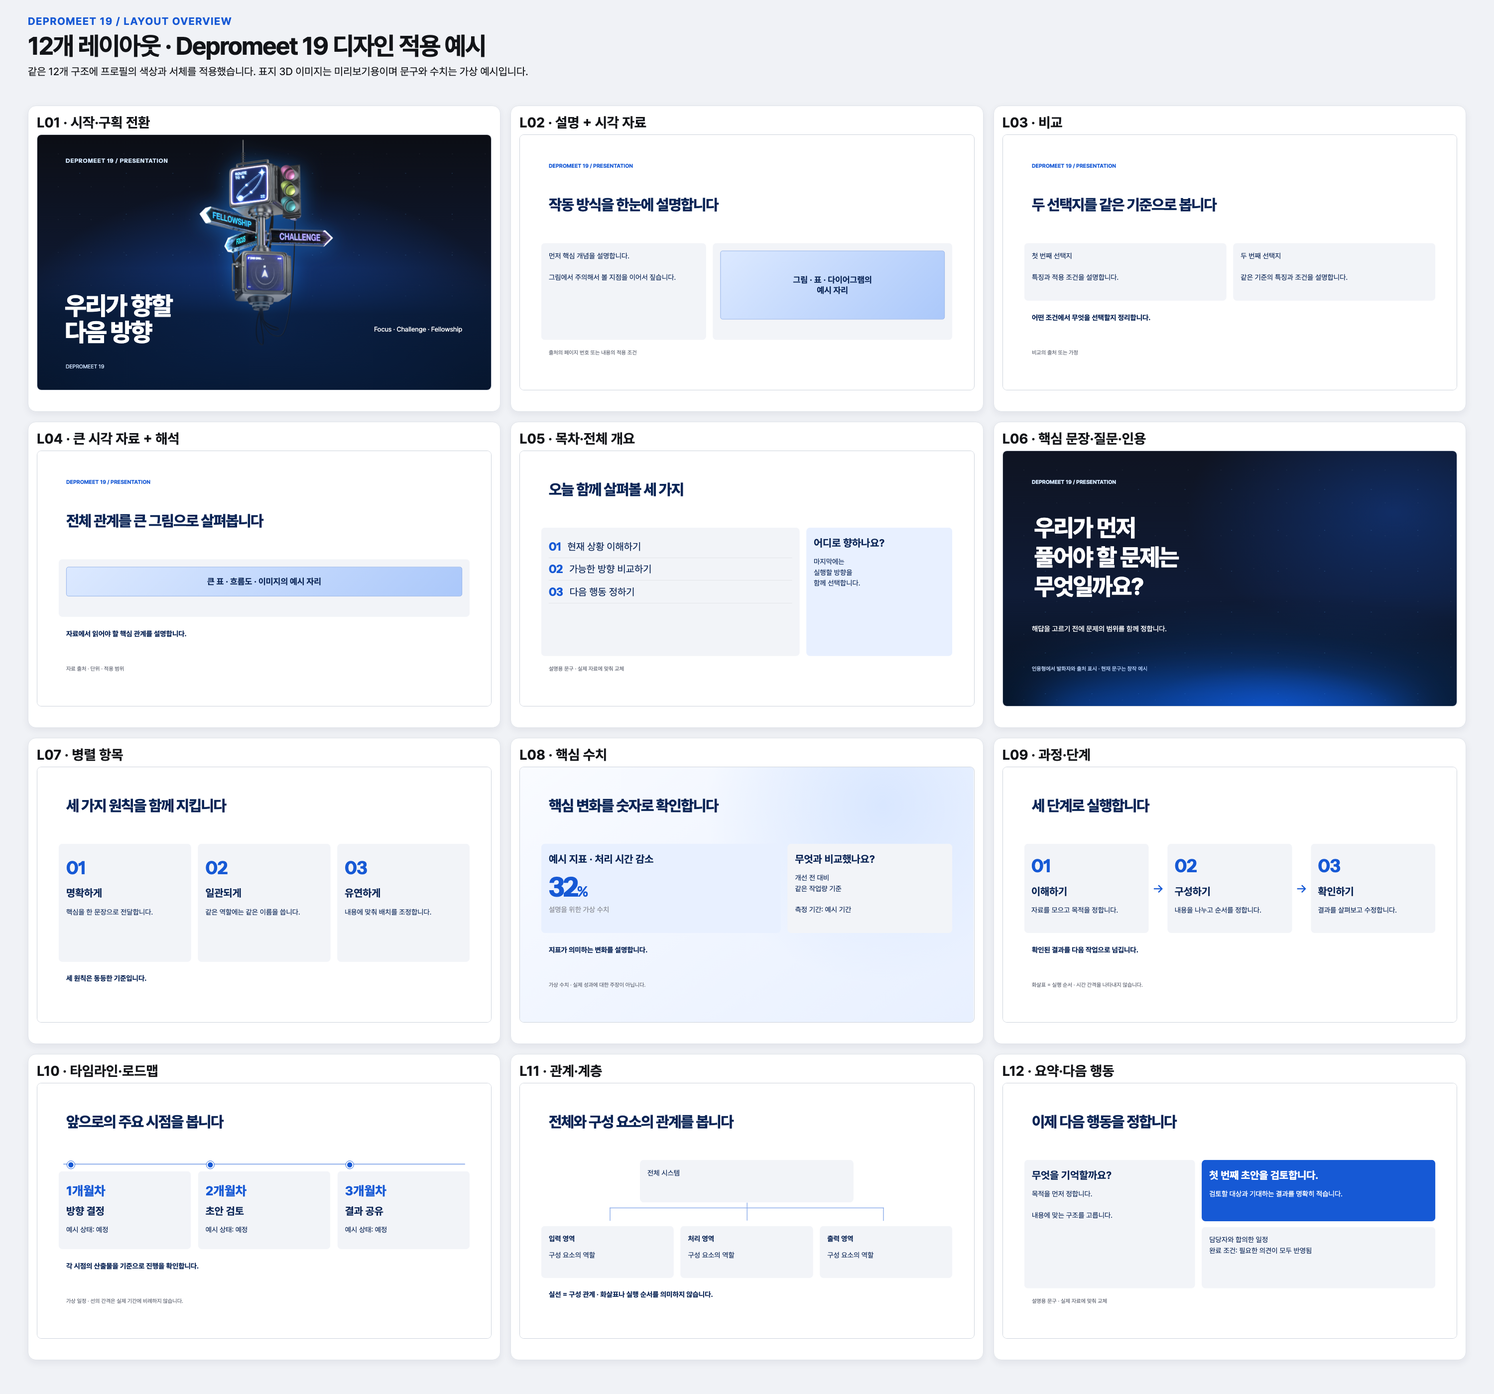
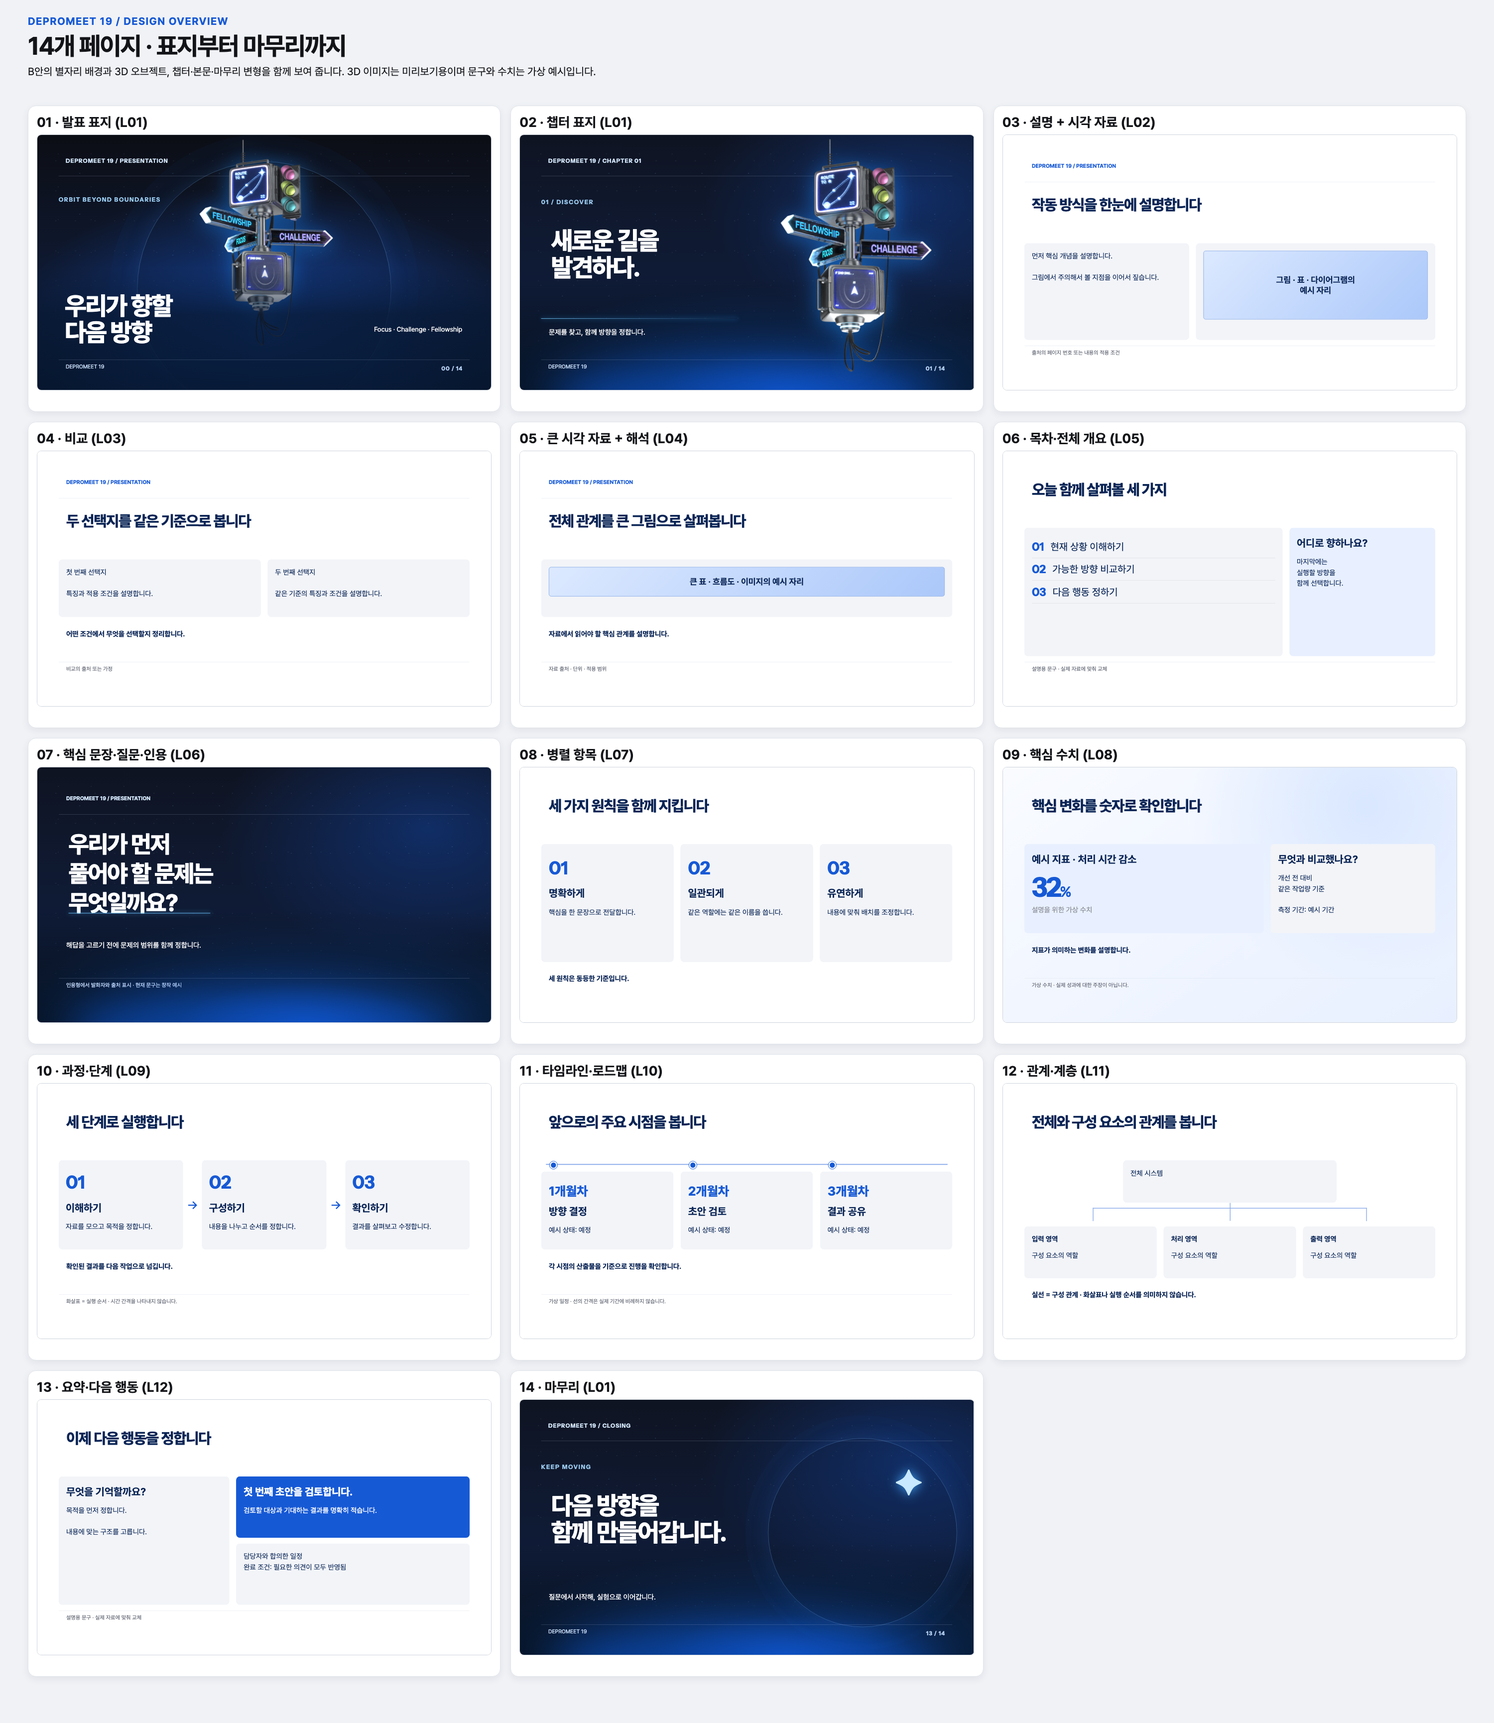
feat: extend 19th profile gallery to 14 specimens

diff --git a/plugins/depromeet-plugin/skills/create-slides/profiles/depromeet_19/layout-skeleton.html b/plugins/depromeet-plugin/skills/create-slides/profiles/depromeet_19/layout-skeleton.html
@@ -10,7 +10,7 @@
   <header>
     <div class="eyebrow">DEPROMEET 19 · 12 LAYOUT FAMILIES · 디자인 검토용</div>
     <h1>표지는 짙게, 본문은 밝게</h1>
-    <p class="intro">B안의 중앙 오브젝트 표지를 기준으로 한 12개 기본형입니다. 표지와 챕터·핵심 문장은 짙은 남색, 설명과 도표는 흰색을 사용합니다. 문구와 수치는 구조를 보여주기 위한 예시이며, 점선과 영역 이름은 검토용으로만 표시합니다.</p>
+    <p class="intro">B안의 중앙 오브젝트 표지를 기준으로 한 12개 기본형과 표지·챕터·마무리 변형입니다. 전환 장면은 별자리와 짙은 남색, 설명과 도표는 흰색을 사용합니다. 문구와 수치는 구조를 보여주기 위한 예시이며, 점선과 영역 이름은 검토용으로만 표시합니다.</p>
 <nav aria-label="레이아웃 목록"><a href="#L01" data-pick="0">L01 · 시작·구획 전환</a><a href="#L02" data-pick="1">L02 · 설명 + 시각 자료</a><a href="#L03" data-pick="2">L03 · 비교</a><a href="#L04" data-pick="3">L04 · 큰 시각 자료 + 해석</a><a href="#L05" data-pick="4">L05 · 목차·전체 개요</a><a href="#L06" data-pick="5">L06 · 핵심 문장·질문·인용</a><a href="#L07" data-pick="6">L07 · 병렬 항목</a><a href="#L08" data-pick="7">L08 · 핵심 수치</a><a href="#L09" data-pick="8">L09 · 과정·단계</a><a href="#L10" data-pick="9">L10 · 타임라인·로드맵</a><a href="#L11" data-pick="10">L11 · 관계·계층</a><a href="#L12" data-pick="11">L12 · 요약·다음 행동</a></nav><div class="controls"><button id="single" aria-pressed="true">한 장씩 보기</button><button id="all" aria-pressed="false">전체 보기</button><button id="prev" aria-label="이전 레이아웃">← 이전</button><span id="position" aria-live="polite"></span><button id="next" aria-label="다음 레이아웃">다음 →</button></div>
     <p class="review-note">이름과 배치를 확인한 뒤 대화에서 의견을 남겨주세요. 예: “L02의 설명 영역을 넓혀줘.” 모바일에서는 아래의 영역 설명을 함께 확인하고, 전체 비율은 가로 화면에서 확인하세요.</p>
     <noscript><p>레이아웃 축소 표시는 JavaScript가 필요합니다. JavaScript를 켜거나 데스크톱 브라우저에서 열어주세요. 영역 설명은 아래에서 읽을 수 있습니다.</p></noscript>
@@ -19,23 +19,37 @@
     <!-- Select only the needed layout families. Adapt regions to the actual brief. -->
     <section class="layout-card" id="L01" data-layout-id="L01" aria-labelledby="L01-heading">
       <div class="layout-heading"><h2 id="L01-heading">L01 · 시작·구획 전환</h2><span>1920 × 1080 · 16:9</span></div>
-      <p class="layout-description">B안 표지는 중앙 3D 오브젝트와 왼쪽 아래 제목을 사용합니다. 챕터는 같은 배경에서 오브젝트를 오른쪽으로 옮깁니다. 이미지가 제공되지 않으면 CSS 궤도 장식을 사용합니다.</p>
+      <p class="layout-description">B안 표지는 중앙 3D 오브젝트와 왼쪽 아래 제목을 사용합니다. 챕터는 오브젝트를 오른쪽으로 옮기고, 마무리는 오브젝트 없이 결론에 집중합니다. 이미지가 제공되지 않으면 CSS 궤도 장식을 사용합니다.</p>
       <div class="preview-window"><div class="layout-stage cover-stage" aria-label="B안 발표 표지 예시">
         <div class="region context" data-region-id="context"><span class="region-label">1 · 맥락 라벨 <code>context</code></span><p>DEPROMEET 19 / PRESENTATION</p></div>
+        <div class="cover-halo" aria-hidden="true"></div>
+        <div class="mode-kicker" aria-hidden="true">ORBIT BEYOND BOUNDARIES</div>
         <div class="hero-art" data-region-id="hero-asset" role="img" aria-label="사용자가 제공할 3D 오브젝트 자리. 이미지가 없으면 궤도 장식 사용"><span>2 · 3D 오브젝트 자리 <code>hero-asset</code><br><small>사용자 제공 이미지 또는 CSS 궤도</small></span></div>
+        <div class="title-shade" aria-hidden="true"></div>
         <div class="region opener-title" data-region-id="title"><span class="region-label">3 · 페이지 제목 <code>title</code></span><p class="sample-title">예시: 우리가 향할<br>다음 방향</p></div>
         <div class="region subtitle" data-region-id="subtitle"><span class="region-label">4 · 부제 <code>subtitle</code></span><p>예시: 발표의 핵심을 짧게 요약합니다.</p></div>
-        <div class="region sources" data-region-id="byline"><span class="region-label">5 · 발표 정보 <code>byline</code></span><p>DEPROMEET 19</p></div>
+        <div class="region sources" data-region-id="byline"><span class="region-label">5 · 발표 정보 <code>byline</code></span><p>DEPROMEET 19</p><span class="page-marker">00 / 14</span></div>
       </div></div>
       <p class="specimen-label">같은 L01의 챕터 변형</p>
       <div class="preview-window"><div class="layout-stage chapter-stage" aria-label="챕터 표지 예시">
         <div class="region context" data-region-id="context"><span class="region-label">1 · 맥락 라벨 <code>context</code></span><p>DEPROMEET 19 / CHAPTER 01</p></div>
+        <div class="mode-kicker" aria-hidden="true">01 / DISCOVER</div>
         <div class="hero-art" data-region-id="hero-asset" role="img" aria-label="오른쪽에 배치할 사용자 제공 3D 오브젝트 자리"><span>2 · 3D 오브젝트 자리 <code>hero-asset</code></span></div>
         <div class="region opener-title" data-region-id="title"><span class="region-label">3 · 챕터 제목 <code>title</code></span><p class="sample-title">예시: 새로운 길을<br>발견하다.</p></div>
+        <div class="chapter-beam" aria-hidden="true"></div>
         <div class="region subtitle" data-region-id="subtitle"><span class="region-label">4 · 부제 <code>subtitle</code></span><p>예시: 문제를 찾고, 함께 방향을 정합니다.</p></div>
-        <div class="region sources" data-region-id="byline"><span class="region-label">5 · 발표 정보 <code>byline</code></span><p>DEPROMEET 19</p></div>
+        <div class="region sources" data-region-id="byline"><span class="region-label">5 · 발표 정보 <code>byline</code></span><p>DEPROMEET 19</p><span class="page-marker">01 / 14</span></div>
       </div></div>
-      <p class="variant">챕터 표지: 같은 배경을 사용하고 3D 오브젝트를 오른쪽으로 축소해 챕터 제목을 왼쪽에 둡니다. 마무리: 같은 배경을 사용하되 3D 오브젝트를 생략하고 결론을 크게 표시합니다.</p>
+      <p class="specimen-label">같은 L01의 마무리 변형</p>
+      <div class="preview-window"><div class="layout-stage closing-stage" aria-label="마무리 페이지 예시">
+        <div class="region context" data-region-id="context"><span class="region-label">1 · 맥락 라벨 <code>context</code></span><p>DEPROMEET 19 / CLOSING</p></div>
+        <div class="closing-orbit" aria-hidden="true"></div>
+        <div class="mode-kicker" aria-hidden="true">KEEP MOVING</div>
+        <div class="region opener-title" data-region-id="title"><span class="region-label">2 · 마무리 문장 <code>title</code></span><p class="sample-title">예시: 다음 방향을<br>함께 만들어갑니다.</p></div>
+        <div class="region subtitle" data-region-id="subtitle"><span class="region-label">3 · 보조 문장 <code>subtitle</code></span><p>예시: 질문에서 시작해, 실험으로 이어갑니다.</p></div>
+        <div class="region sources" data-region-id="byline"><span class="region-label">4 · 발표 정보 <code>byline</code></span><p>DEPROMEET 19</p><span class="page-marker">13 / 14</span></div>
+      </div></div>
+      <p class="variant">챕터에서는 3D 오브젝트를 오른쪽으로 옮겨 제목을 왼쪽에 두고, 마무리에서는 오브젝트를 생략해 결론을 크게 표시합니다.</p>
       <dl class="legend">
         <div data-for-region="context"><dt>1 · 맥락 라벨 <code>context</code></dt><dd>상단 전체 너비. 행사나 발표의 큰 주제를 표시합니다.</dd></div>
         <div data-for-region="hero-asset"><dt>2 · 오브젝트 <code>hero-asset</code></dt><dd>표지는 중앙, 챕터는 오른쪽. 사용자가 제공한 이미지와 사용 범위를 확인한 경우에만 적용합니다. 이미지가 없으면 CSS 장식을 사용합니다.</dd></div>

diff --git a/plugins/depromeet-plugin/skills/create-slides/profiles/depromeet_19/style.css b/plugins/depromeet-plugin/skills/create-slides/profiles/depromeet_19/style.css
@@ -152,6 +152,7 @@
 .region { background: var(--content-panel); border-color: var(--blue-200); }
 .region .sample-title { color: var(--blue-800); font-weight: 780; letter-spacing: -.045em; }
 .context, .heading, .takeaway, .sources { background: transparent; border-color: transparent; }
+.context { border-bottom: 1px solid var(--content-line); border-radius: 0; }
 .context .region-label { color: var(--blue-500); }
 .sources { border-top: 1px solid var(--content-line); border-radius: 0; }
 .sources p { color: var(--gray-700); }
@@ -170,9 +171,13 @@
 #L01 .layout-stage, #L06 .layout-stage { color: var(--white); background: var(--space-chapter); }
 #L01 .cover-stage { display: block; background: var(--space-cover); }
 #L01 .chapter-stage { display: block; }
-#L01 .layout-stage::before, #L06 .layout-stage::before { content: ""; position: absolute; z-index: 0; inset: 0; opacity: .34; background-image: radial-gradient(circle, #D8EEFF 0 1px, transparent 1.6px), radial-gradient(circle, #64B6FF 0 1px, transparent 1.5px); background-size: 139px 139px, 197px 173px; background-position: 19px 11px, 81px 76px; }
+#L01 .layout-stage::before, #L06 .layout-stage::before { content: ""; position: absolute; z-index: 0; inset: 0; opacity: .37; background-image: radial-gradient(circle, #D8EEFF 0 1px, transparent 1.6px), radial-gradient(circle, #64B6FF 0 1px, transparent 1.5px), radial-gradient(circle, #EFF9FF 0 .65px, transparent 1.3px); background-size: 139px 139px, 197px 173px, 83px 127px; background-position: 19px 11px, 81px 76px, 37px 46px; mask-image: linear-gradient(180deg, #000 0%, #000b 75%, transparent 100%); }
 #L01 .layout-stage::after, #L06 .layout-stage::after { content: ""; position: absolute; z-index: 0; width: 85%; height: 31%; left: 7%; bottom: -19%; border-radius: 50%; background: #0C5FEB; filter: blur(85px); opacity: .5; }
 #L01 .layout-stage > * { position: absolute; z-index: 2; }
+#L01 .mode-kicker { color: #9ACAEF; font: 700 25px "Instrument Sans", "Pretendard", sans-serif; letter-spacing: .14em; }
+#L01 .cover-stage .mode-kicker { top: 259px; left: 90px; }
+#L01 .chapter-stage .mode-kicker { top: 268px; left: 90px; }
+#L01 .closing-stage .mode-kicker { top: 268px; left: 90px; }
 #L01 .region, #L06 .region { color: var(--white); background: transparent; border-color: var(--white-030); }
 #L01 .region-label, #L06 .region-label,
 #L01 .region-label code, #L06 .region-label code { color: #C7E1FF; }
@@ -181,6 +186,10 @@
 #L01 .context p { font: 700 24px "Instrument Sans", "Pretendard", sans-serif; letter-spacing: .08em; }
 #L01 .sources { left: 90px; right: 90px; bottom: 54px; height: 75px; border-bottom: 0; border-left: 0; border-right: 0; }
 #L01 .sources p { color: #D0E4FF; }
+#L01 .page-marker { position: absolute; top: 21px; right: 30px; color: #B5D1F3; font: 700 24px "Instrument Sans", "Pretendard", sans-serif; letter-spacing: .08em; }
+#L01 .cover-stage .sources { z-index: 4; }
+#L01 .cover-stage .cover-halo { top: 112px; left: 422px; width: 1076px; height: 1076px; border: 2px solid #79BEFF55; border-radius: 50%; box-shadow: 0 0 0 115px #2480FF08, 0 0 80px #478DFD20; }
+#L01 .cover-stage .title-shade { z-index: 3; inset: 52% 0 0; background: linear-gradient(180deg, transparent 0%, #081831C9 38%, #07152AE8 100%); }
 #L01 .cover-stage .opener-title { z-index: 4; top: 610px; left: 90px; width: 1050px; height: 340px; padding: 20px 24px; }
 #L01 .cover-stage .opener-title .sample-title { font-size: 106px; line-height: 1.06; }
 #L01 .cover-stage .subtitle { z-index: 4; right: 90px; bottom: 200px; width: 610px; height: 110px; text-align: right; }
@@ -188,6 +197,7 @@
 #L01 .chapter-stage .opener-title { z-index: 4; top: 320px; left: 90px; width: 900px; height: 370px; padding: 40px; }
 #L01 .chapter-stage .opener-title .sample-title { font-size: 106px; line-height: 1.08; }
 #L01 .chapter-stage .subtitle { left: 90px; bottom: 180px; width: 810px; height: 120px; }
+#L01 .chapter-stage .chapter-beam { left: 90px; right: 998px; bottom: 302px; height: 2px; background: linear-gradient(90deg, #72C8FF, transparent); box-shadow: 0 0 20px #2DA8FF; }
 #L01 .hero-art { display: flex; align-items: center; justify-content: center; border: 2px solid #74B8FF88; border-radius: 50%; background: radial-gradient(circle at 50% 58%, #2979E688, #1247AA36 42%, transparent 71%); box-shadow: 0 0 0 75px #2480FF08, 0 0 90px #478DFD33; }
 #L01 .hero-art::before { content: "✦"; position: absolute; top: 11%; right: 20%; color: #D6F2FF; font-size: 145px; text-shadow: 0 0 45px #62BDFF; }
 #L01 .hero-art span { display: block; max-width: 500px; padding: 28px 36px; border: 2px dashed #A8D3FFAA; border-radius: 20px; background: #071B3CBB; color: var(--white); text-align: center; font-size: 30px; font-weight: 750; line-height: 1.5; }
@@ -195,8 +205,19 @@
 #L01 .hero-art small { color: #A9CDFB; font-size: 23px; font-weight: 500; }
 #L01 .cover-stage .hero-art { top: 70px; left: 560px; width: 790px; height: 790px; }
 #L01 .chapter-stage .hero-art { top: 120px; right: 10px; width: 760px; height: 760px; }
+#L01 .has-asset .hero-art { border: 0; background: none; box-shadow: none; }
+#L01 .has-asset .hero-art::before, #L01 .has-asset .hero-art span { display: none; }
+#L01 .has-asset .hero-art img { width: 100%; height: 100%; object-fit: contain; filter: drop-shadow(0 13px 45px #1D8DFF8A); }
+#L01 .cover-stage.has-asset .hero-art { top: -43px; left: 460px; width: 1000px; height: 1000px; }
+#L01 .chapter-stage.has-asset .hero-art { top: -54px; right: -58px; width: 1130px; height: 1130px; }
+#L01 .closing-stage .opener-title { z-index: 4; top: 335px; left: 90px; width: 1170px; height: 340px; padding: 40px; }
+#L01 .closing-stage .opener-title .sample-title { font-size: 106px; line-height: 1.08; }
+#L01 .closing-stage .subtitle { left: 90px; bottom: 180px; width: 1050px; height: 120px; }
+#L01 .closing-stage .closing-orbit { top: 162px; right: 70px; width: 800px; height: 800px; border: 2px solid #72B6FF55; border-radius: 50%; box-shadow: 0 0 0 96px #2480FF08, 0 0 80px #478DFD20; }
+#L01 .closing-stage .closing-orbit::after { content: "✦"; position: absolute; top: 12%; right: 18%; color: #C8E9FF; font-size: 150px; text-shadow: 0 0 50px #45AAFF; }
 #L06 .statement { background: transparent; border-color: transparent; }
 #L06 .statement .sample-title { font-size: 100px; }
+#L06 .statement::after { content: ""; position: absolute; left: 40px; bottom: 54px; width: 600px; height: 2px; background: #6CC4FF; box-shadow: 0 0 18px #63C4FF; }
 #L06 .sources p { color: #C8DCFA; }
 .specimen-label { margin: 18px 0 8px; color: var(--blue-800); font-size: 15px; font-weight: 750; }
 .action-stack { flex: 3; }

diff --git a/plugins/depromeet-plugin/skills/create-slides/profiles/depromeet_19/PROFILE.md b/plugins/depromeet-plugin/skills/create-slides/profiles/depromeet_19/PROFILE.md
@@ -7,7 +7,7 @@ and statement pages, and white content pages. The star field and gradients are
 CSS adaptations, not official design-guide requirements. The source PDFs,
 source banner, reusable 3D image file, and font binaries are not distributed
 with this skill. The design overview includes the user-supplied 3D object in
-its cover preview only.
+its cover and chapter previews only.
 The 12 layout families are structural choices; their example copy is not deck
 content or a factual claim.
 
@@ -17,11 +17,12 @@ content or a factual claim.
   stage geometry, spacing, component appearance, and review-only styling.
 - [layout-skeleton.html](layout-skeleton.html) is the browser-visible set of
   layout specimens and region names. It loads `style.css` beside itself.
-- [design-overview.png](design-overview.png) shows the 12 families with the
-  current colors, typography, and a rasterized 3D cover example;
-  [layout-overview.png](layout-overview.png)
-  shows their content regions and reading order. Both are quick references
-  rendered from the HTML specimens, not separate layout specifications.
+- [design-overview.png](design-overview.png) shows 14 page specimens: cover,
+  chapter, 11 content families, and closing. It includes the current colors,
+  typography, star field, and rasterized 3D examples.
+- [layout-overview.png](layout-overview.png) shows the 12 layout families'
+  content regions and reading order. Both images are quick references rendered
+  from the HTML specimens, not separate layout specifications.
 - This file defines when to use each visual mode, how to place an optional
   3D object, and how to adapt the source guide to slides. Do not add
   profile-specific defaults to the common workflow.
@@ -29,11 +30,11 @@ content or a factual claim.
   required license, acquisition, and fallback handling for each deck.
 
 Use the HTML skeleton as the browser-visible source of truth for all 12
-families. L01 shows both cover and chapter specimens. Its CSS orbit is an
-asset-free placeholder; the 3D cover example in the overview PNG does not
-provide a reusable image file or permission to reuse the original asset.
-The overview images show the L01 cover specimen; open the HTML skeleton to
-inspect its chapter variant.
+families. L01 shows cover, chapter, and closing specimens. Its CSS orbit is an
+asset-free placeholder; the 3D examples in the overview PNG do not provide a
+reusable image file or permission to reuse the original asset. For a deck with
+an authorized image, replace the `hero-asset` placeholder with an image and
+add `.has-asset` to that stage. The closing specimen omits the image.
 
 When preparing a deck, copy both the skeleton and stylesheet into its output
 directory. Keep their relative link working. Select only the layouts needed,
@@ -52,8 +53,8 @@ its visible tables enumerate 27. Do not invent the other nine.
 - **Cover (`L01`)**: use `--space-cover`, a centered supplied 3D object when
   authorized, and a large lower-left title. This is the profile's B composition.
 - **Chapter (`L01`)**: use `--space-chapter`, move an available 3D object right,
-  and keep the chapter title left. A closing page can reuse the dark background
-  without the object so the final statement remains primary.
+  and keep the chapter title left. The closing specimen reuses the dark
+  background without the object so the final statement remains primary.
 - **Content (`L02`–`L05`, `L07`, `L09`–`L12`)**: white is the default stage.
   Use `--blue-800` for titles, `--blue-500` for selected emphasis, and
   `--content-panel` for quiet cards. Keep the space texture and 3D image off
@@ -92,6 +93,10 @@ presentation size and a smaller desktop viewport.
 The profile uses a 1920×1080, 16:9 stage. Start with a 90 px stage margin,
 24–30 px region gaps, and broad text/image regions. These measurements are
 slide-specific choices. Change them in this profile when updating its look.
+The dark specimens use three layers of small stars, a low blue glow, and thin
+header and footer rules. Keep the cover halo and lower title shade, the chapter
+light beam, and the closing orbit when adapting those modes. Kicker text and
+page counters in the specimens are examples; replace them for each deck.
 
 | Layout ID | Use | Main regions |
 | --- | --- | --- |
